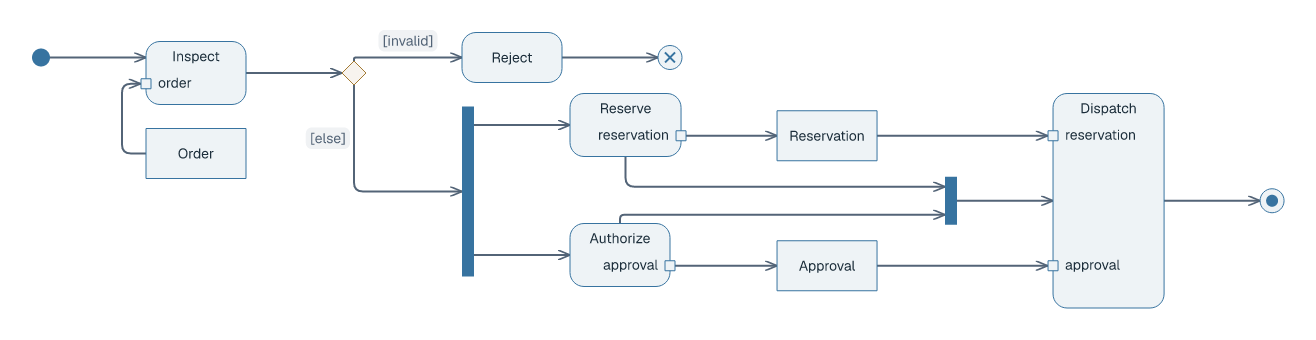
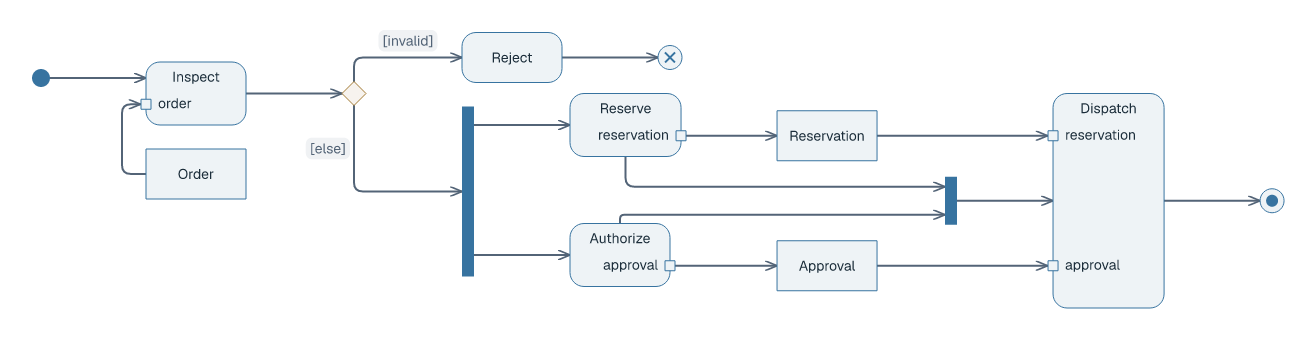
Separate short activity decision stems by moving aligned upstream nodes

diff --git a/src/geometry/constraints/activity_preference.rs b/src/geometry/constraints/activity_preference.rs
@@ -333,6 +333,75 @@ pub(super) fn apply(
     }
 }
 
+// Give a decision's upper branch a visible vertical departure before the
+// control flow turns toward an action. Move its entire existing alignment
+// group, so preceding nodes keep their authored/soft axial relationships.
+pub(super) fn separate_short_decision_stem(
+    diagram: &Diagram,
+    boxes: &[BoxNode],
+    eq_y: &[Equality],
+    y: &[Minimum],
+    positions: &[f64],
+    preferred: &mut [f64],
+) -> bool {
+    if diagram.settings.diagram_type != DiagramType::Activity
+        || diagram.settings.direction != FlowDirection::LeftToRight
+    {
+        return false;
+    }
+    let owner = |id: &str| boxes.iter().position(|node| node.has_endpoint(id)).unwrap();
+    for relation in &diagram.relations {
+        if relation.activity_flow != Some(ActivityFlow::Control) {
+            continue;
+        }
+        let (decision, target) = (owner(&relation.from), owner(&relation.to));
+        if boxes[decision].kind != NodeKind::ActivityDecision
+            || boxes[target].kind != NodeKind::ActivityAction
+        {
+            continue;
+        }
+        let target_center = positions[target] + boxes[target].height / 2.0;
+        let decision_center = positions[decision] + boxes[decision].height / 2.0;
+        if target_center >= decision_center - 2.0 {
+            continue; // Not an upper branch.
+        }
+        let stem = positions[decision] - target_center;
+        let minimum = boxes[decision].height;
+        if stem >= minimum - 0.01 {
+            continue;
+        }
+        let mut connected = vec![false; boxes.len()];
+        connected[decision] = true;
+        loop {
+            let mut changed = false;
+            for equality in eq_y {
+                if connected[equality.a] && !connected[equality.b] {
+                    connected[equality.b] = true;
+                    changed = true;
+                }
+                if connected[equality.b] && !connected[equality.a] {
+                    connected[equality.a] = true;
+                    changed = true;
+                }
+            }
+            if !changed {
+                break;
+            }
+        }
+        let anchor = connected.iter().position(|member| *member).unwrap();
+        let saved = preferred[anchor];
+        preferred[anchor] += minimum - stem;
+        if solve_axis(boxes.len(), eq_y, y, preferred).is_ok_and(|new_positions| {
+            new_positions[decision] - new_positions[target] - boxes[target].height / 2.0
+                >= minimum - 0.01
+        }) {
+            return true;
+        }
+        preferred[anchor] = saved; // Mandatory constraints leave no room to separate.
+    }
+    false
+}
+
 // Collision resolution can separate branch actions after their initial
 // positions were chosen. Recenter the free join on those final branch lanes.
 pub(super) fn recenter_joins(

diff --git a/src/geometry/constraints.rs b/src/geometry/constraints.rs
@@ -425,6 +425,16 @@ pub fn place(
             if activity_preference::recenter_joins(diagram, boxes, &ys, &mut pref_y) {
                 continue;
             }
+            if activity_preference::separate_short_decision_stem(
+                diagram,
+                boxes,
+                &eq_y,
+                &y,
+                &ys,
+                &mut pref_y,
+            ) {
+                continue;
+            }
             for (i, node) in boxes.iter_mut().enumerate() {
                 node.x = xs[i];
                 node.y = ys[i];

diff --git a/tests/activity.rs b/tests/activity.rs
@@ -214,6 +214,10 @@ fn parallel_activity_places_objects_in_lanes_without_diagonal_or_crossing_flows(
         (invalid[0].y - decision.y).abs() < 0.01,
         "invalid exits at the diamond top"
     );
+    assert!(
+        invalid[0].y - invalid[1].y >= decision.height - 0.01,
+        "auto-layout must move the decision's upstream chain to leave a gateway-high first segment"
+    );
     assert!((invalid[2].x - reject.x).abs() < 0.01);
     assert!(
         (invalid[2].y - reject.y - reject.height / 2.0).abs() < 0.01,

diff --git a/docs/activity-diagrams.md b/docs/activity-diagrams.md
@@ -16,7 +16,7 @@ Set `type: activity`. LAML draws UML 2.5.1 activity notation with actions, objec
 
 Use `control A --> B` for a control flow, or `object A::output --> Result` / `object Result --> B::input` for an object flow. Both draw a solid directed arrow: the explicit source keyword and checked endpoints carry the distinction. An object flow may also connect an output pin directly to an input pin. An object arrow cannot connect directly to an action body, and an input pin cannot source an object flow. Decision exits require a literal label such as `control Valid --> Dispatch : [approved]` or `control Valid --> Reject : [else]`; at most one `[else]` is allowed. Guards are text, not computed conditions. Other arrow operators and arbitrary line styles cannot substitute for the UML symbols.
 
-For a left-to-right control chain, automatic placement prefers a direct entry from the initial node on the action's left and a direct exit on its right. When an action has a named input pin, the incoming control arrow uses the clear upper part of the left edge. A single object node feeding that pin prefers a row below the action; its object flow approaches the input square separately. For a left-to-right parallel two-branch activity with two object inputs, automatic placement can align each object with its output pin and matching input pin. It sizes the join bar for its incoming controls and expands the receiving action to leave a separate central control lane. Explicit action heights are preserved. Authored layout remains mandatory and takes precedence over these preferences.
+For a left-to-right control chain, automatic placement prefers a direct entry from the initial node on the action's left and a direct exit on its right. When an action has a named input pin, the incoming control arrow uses the clear upper part of the left edge. A single object node feeding that pin prefers a row below the action; its object flow approaches the input square separately. For a left-to-right parallel two-branch activity with two object inputs, automatic placement can align each object with its output pin and matching input pin. It sizes the join bar for its incoming controls and expands the receiving action to leave a separate central control lane. Explicit action heights are preserved. For an upper decision branch, auto-placement moves the decision and its aligned predecessors when possible so the first vertical route segment is at least one decision-glyph height before its single bend toward the action. Authored layout remains mandatory and takes precedence over these preferences.
 
 To extend a fork or join bar, set its **long-axis length** in LSS. In a left-to-right activity the bar grows vertically; in a top-to-bottom activity it grows horizontally. Its thickness stays at the UML notation's 12 px:
 

diff --git a/docs/diagrams/activity.md b/docs/diagrams/activity.md
@@ -49,8 +49,8 @@ styling {
 ```
 
 <picture>
-  <source media="(prefers-color-scheme: dark)" srcset="../images/activity-order-modern-dark.png?v=activity-invalid-one-bend-20261104">
-  <img src="../images/activity-order-modern.png?v=activity-invalid-one-bend-20261104" alt="Order activity with guarded decision and extended fork/join">
+  <source media="(prefers-color-scheme: dark)" srcset="../images/activity-order-modern-dark.png?v=activity-gateway-stem-20261104">
+  <img src="../images/activity-order-modern.png?v=activity-gateway-stem-20261104" alt="Order activity with guarded decision and extended fork/join">
 </picture>
 
 [Complete source](../../examples/activity-order.laml). A `decision` uses guarded outgoing paths; `fork` and `join` split and rejoin parallel paths. `length` extends the fork along its long axis so both outgoing arrows can run horizontally. `flowFinal` ends one path, `activityFinal` ends the activity.
@@ -66,8 +66,8 @@ object Approval --> Dispatch::approval
 ```
 
 <picture>
-  <source media="(prefers-color-scheme: dark)" srcset="../images/activity-order-modern-dark.png?v=activity-invalid-one-bend-20261104">
-  <img src="../images/activity-order-modern.png?v=activity-invalid-one-bend-20261104" alt="Named action pins and object nodes in the order activity">
+  <source media="(prefers-color-scheme: dark)" srcset="../images/activity-order-modern-dark.png?v=activity-gateway-stem-20261104">
+  <img src="../images/activity-order-modern.png?v=activity-gateway-stem-20261104" alt="Named action pins and object nodes in the order activity">
 </picture>
 
 [Complete source](../../examples/activity-order.laml). `Action::pin` addresses an input or output pin. See [GNE](gne.md) for common placement/styling and the [syntax reference](../language-reference.md#activity-diagrams) for vertex and flow forms.
